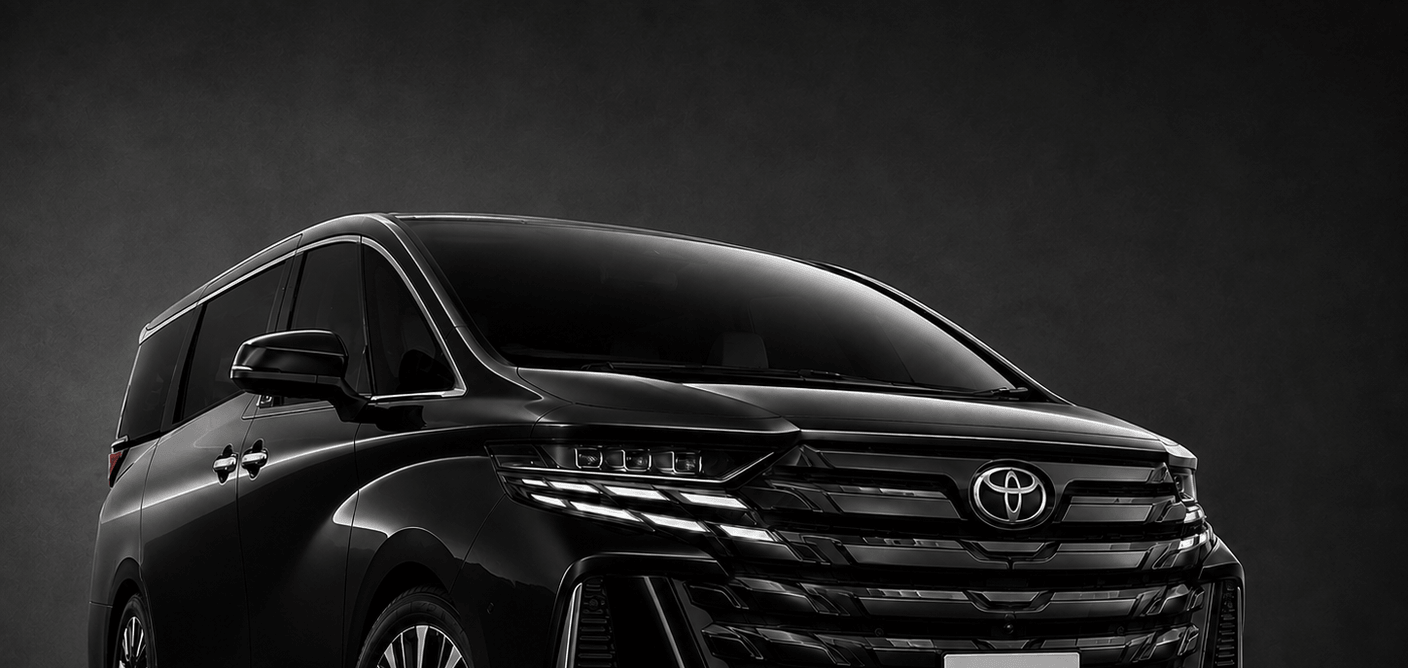
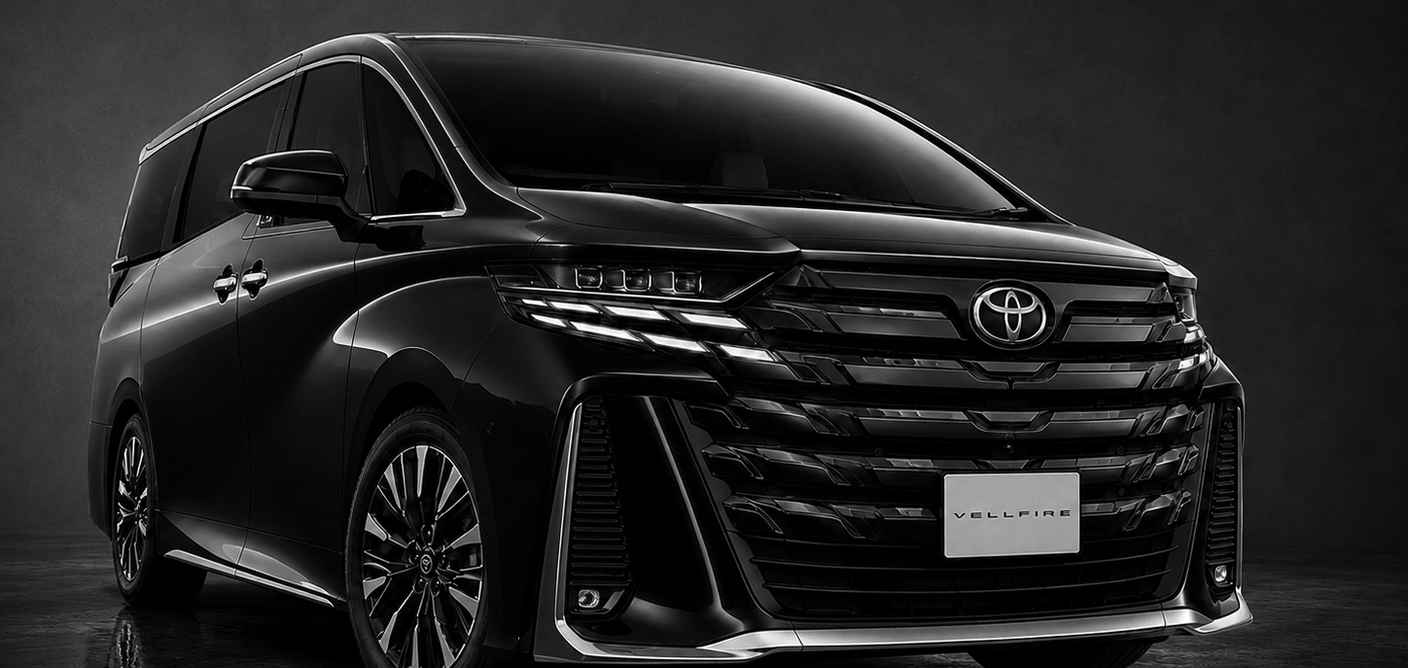
fix: remove Compare-mode annotation dots site-wide, raise Vellfire hero
Compare-mode's annotation dots (base + overlay) removed entirely per
direct user request -- verified all 3 dots on Alphard's 30系⇄40系 pair
were correctly positioned on real features (grille/A-pillar/rear
quarter), but the user wants Compare to be a pure photo-vs-photo
comparison with no markers at all, site-wide. Detail's own dot+line+
label annotations are unaffected.

Also fixes Vellfire's hero photo: it was cropped with far more empty
headroom (roof at 32% down the frame) than Alphard's matching hero
(roof at 5% down) despite both using the same tight "presence-first"
convention -- traced to the crop script's original bbox measurement
using too low a brightness threshold, which mistook background glow
near the top of this particular (moody-lit) source photo for the car.
Re-measured with a threshold verified stable across a 90-180 range and
re-cropped so the roof lands at the same ~5% headroom as Alphard.

diff --git a/src/car-page.js b/src/car-page.js
@@ -446,12 +446,13 @@ function initCompare(generations) {
     labelRight.textContent = newer.title
     pairText.textContent = `${older.title} ⇄ ${newer.title}`
 
-    // Compare mode shows dots only, no labels -- it's the purest "photo
-    // as the interface" surface on the page, so it points at what
-    // changed without re-explaining it (that's the detail section's
-    // job above).
-    renderDots(document.getElementById('compare-annotations-base'), newer.annotations)
-    renderDots(document.getElementById('compare-annotations-overlay'), older.annotations)
+    // Compare mode shows no annotation dots (removed 2026-08-04, direct
+    // user request, site-wide) -- it's the purest "photo as the
+    // interface" surface on the page: no markers, just the two photos
+    // and the drag divider. The detail section above is where features
+    // are actually called out (dot + leader line + label).
+    document.getElementById('compare-annotations-base').innerHTML = ''
+    document.getElementById('compare-annotations-overlay').innerHTML = ''
 
     setSplit(50)
   }
